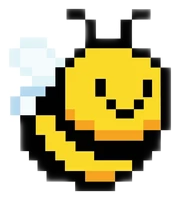
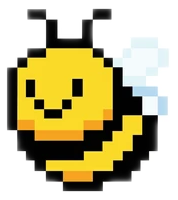
Fix bee and game over scene

diff --git a/src/scenes/game_over_scene.py b/src/scenes/game_over_scene.py
@@ -13,6 +13,7 @@ class GameOverScene(BaseScene):
     def enter(self):
         self.title_font = load_font("VT323-Regular.ttf", 80)
         self.text_font = load_font("VT323-Regular.ttf", 40)
+        self.pre_theme = self.game.context.background_theme
 
         # tạo icon apple
         self.apple_icon = create_pixel_sprite(APPLE_MATRIX, 5, APPLE_COLORS)
@@ -83,7 +84,9 @@ class GameOverScene(BaseScene):
     def handle_event(self, event):
         if event.type == pygame.KEYDOWN:
             if event.key == pygame.K_r:
+                self.game.context.background_theme = self.pre_theme
                 self.game.state_machine.change(GAME_SCENE)
 
             if event.key == pygame.K_ESCAPE:
+                self.game.context.background_theme = self.pre_theme
                 self.game.state_machine.change(MENU_SCENE)

diff --git a/src/scenes/game_scene.py b/src/scenes/game_scene.py
@@ -40,13 +40,15 @@ class GameScene(BaseScene):
         self.game.context.is_game_over = False
         self.game.context.gravity = GRAVITY
         self.game.context.scroll_speed = SCROLL_SPEED
-        self.game.context.background_theme = "noon"
+        # self.game.context.background_theme = "noon"
+        current_theme = self.game.context.background_theme or "noon"
+        
         self.game.context.is_flipped = False
         self.game.context.pending_flip_apple = False
         self.game.context.next_flip_spawn_score = FLIPPED_START_SCORE
         self.game.context.flip_exit_spawn_score = None
         self.game.context.pre_flip_theme = "noon"
-        self._configure_theme_cycle("noon")
+        self._configure_theme_cycle(current_theme)
         
         self.bees = []
         self.bee_spawn_timer = 0

diff --git a/src/entities/bee.py b/src/entities/bee.py
@@ -11,7 +11,7 @@ class Bee:
         self.height = 40
         
         # try:
-        self.image = pygame.image.load("assets/images/usagi.png").convert_alpha()
+        self.image = pygame.image.load("assets/images/bee.png").convert_alpha()
         self.image = pygame.transform.scale(self.image, (self.width, self.height))
         # except FileNotFoundError:
         #     self.image = pygame.Surface((self.width, self.height), pygame.SRCALPHA)

diff --git a/config.py b/config.py
@@ -20,7 +20,7 @@ PIPE_MOVE_SPEED = 1.6
 PIPE_MOVE_RISING_MULTIPLIER = 1.9
 PIPE_COIN_CLEARANCE = 10
 
-FLIPPED_START_SCORE = 20
+FLIPPED_START_SCORE = 5
 FLIPPED_TRIGGER_MIN_GAP = 20
 FLIPPED_TRIGGER_MAX_GAP = 25
 FLIPPED_DURATION_MIN_POINTS = 5
